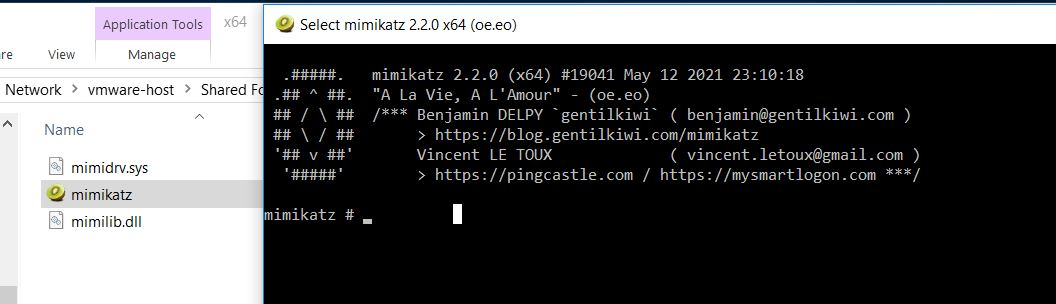
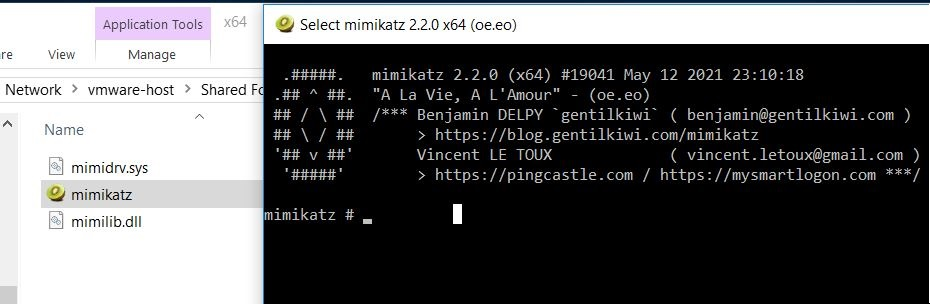
Ajout wpa, modif taille image

diff --git a/_posts/2021-06-15-WPA.md b/_posts/2021-06-15-WPA.md
@@ -1,0 +1,90 @@
+---
+layout: post
+title:  "WPA en bref"
+date:   2021-06-15 
+categories: sécurité réseau
+tags: wpa
+description: Description du protocole WPA
+---
+
+
+
+## Résumé
+
+- Nouveau contrôle intégrité *Message Integrity Code*
+- Utilise l'algorithme TKIP
+- Double la taille de l'IV, par rapport à WEP, qui passe à 48 bits
+
+
+
+## Schéma
+
+### Protocole WPA
+
+Représentation simplifiée du protocole WPA.
+
+Le premier cadre rouge représente la partie qui protège l'intégrité, grâce au MIC
+
+Le 2ème cadre rouge concerne la partie qui assure la confidentialité grâce à l'algorithme TKIP.
+
+
+
+![wpa-schema](../assets/article/reseau/wpa/wpa-schema.png)
+
+### Génération des clés
+
+Ce schéma représente la génération des clés
+
+![wpa-generation-cle](../assets/article/reseau/wpa/wpa-generation-cle.png)
+
+
+
+## Détails
+
+### MIC - Intégrité
+
+- Comment est généré le MIC ?
+
+Il est généré à partir d'une clé MIC, du bloc de données data et des informations permettant d'authentifiés les émetteurs et les récepteurs. Ceux-ci  sont authentifiés par leur adresse MAC respectives. Pour la priorité, celle-ci vaut toujours 0 en pratique.
+
+
+
+- Conséquence : 
+
+1) Si un attaquant intercepte le message,  il lui ne sera pas possible de lui faire croire que le message provient de l'attaquant et non de l'émetteur originale
+
+2) Un message protégé par un MIC ne peut être rendu qu'au destinateur qu'on avait choisi au début.
+
+3) Le récepteur ne va jamais croire que le message provient de quelqu'un d'autres que l'émetteur
+
+
+
+### TKIP - Confidentialité
+
+Dans WEP, on utilise RC4 directement
+
+Avec WPA, on utilise TKIP et c'est lui va utilisé RC4. afin de générer un keystream. TKIP aura pour rôle de rattraper les vulnérabilités présentes dans RC4. 
+
+Le keystream sera différent à chaque fois. 
+
+
+
+### CLES
+
+Pour envoyer une trame protégée avec WPA (unicast), il faut 2 clés :
+
+- Une clé pour calculé le MIC
+- Une clé pour l'algorithme KTIP
+
+Chaque clé est unique pour chaque client
+
+
+
+## Sources 
+
+Cours SRX enseigné à l'HEIG-VD(2021)
+
+
+
+
+

diff --git a/_posts/2021-06-15-linux-lien.md b/_posts/2021-06-15-linux-lien.md
@@ -1,15 +1,15 @@
 ---
 layout: post
 title:  "Les liens avec Linux"
-date:   2021-06-05 
+date:   2021-06-15 
 categories: Linux
 tags: bash
 description: Liens symboliques et physiques avec Linux
 ---
 
-Cet article présente les liens symboliques et physiques
+Cet article présente les liens symboliques et physiques. 
 
-
+Les manipulations ont été effectués sur une machine Ubuntu 20.04 *LTS*
 
 
 
@@ -85,7 +85,7 @@ Pour réaliser les exemples, on créer d'abord un
 
 A l'affichage, on peut remarquer que file_3 est coloré en bleu et qu'avec la commande ls, on a une petite flèche -> sur le fichier source.
 
-![affichage-lien](C:\Users\super\switchdrive\HEIG\divers\mywebsite\assets_2\lien\affichage-lien.PNG)
+![affichage-lien]({{site.url_complet}}\assets_2\lien\affichage-lien.PNG)
 
 ### 2) Modification
 
@@ -95,7 +95,7 @@ On observe le même comportement avec file_1
 
 Conclusion : Que ça soit avec un lien physique ou symbolique, bien que l'implémentation soit différente, le résultat pour l'utilisateur est le même.
 
-![modification](C:\Users\super\switchdrive\HEIG\divers\mywebsite\assets_2\lien\modification.PNG)
+![modification]({{site.url_complet}}\assets_2\lien\modification.PNG)
 
 ### 3) Utilisation de la commande mv
 
@@ -110,7 +110,7 @@ va modifier l'inode de l'entrée de file_1 dans le répertoire.
 - Cette modification sera prise en compte par le lien symbolique, car celui-ci pointe sur file_1 (l'entrée).
 -  Alors que le lien physique, lui il pointe toujours sur l'inode d'origine, celui auquel file_1 pointait au début.
 
-![mv-lien](C:\Users\super\switchdrive\HEIG\divers\mywebsite\assets_2\lien\mv-lien.PNG)
+![mv-lien]({{site.url_complet}}\assets_2\lien\mv-lien.PNG)
 
 ### 4) Suppression avec rm
 
@@ -120,7 +120,7 @@ On peut aussi constater un affichage en rouge pour file_3 indiquant que le lien 
 
 Le lien physique ne sera pas affecté car celui-ci ne pointe pas directement sur file_1 mais avait repris l'inode sur lequel pointait file_1.
 
-![rm-lien](C:\Users\super\switchdrive\HEIG\divers\mywebsite\assets_2\lien\rm-lien.PNG)
+![rm-lien]({{site.url_complet}}\assets_2\lien\rm-lien.PNG)
 
 
 

diff --git a/_posts/2021-05-18-mimikatz-afficher-logs.md b/_posts/2021-05-18-mimikatz-afficher-logs.md
@@ -2,7 +2,7 @@
 layout: post
 title:  "Mimikatz - afficher les logs"
 date:   2021-05-18 
-categories: sécurité mimikatz
+categories: sécurité 
 tags: mimikatz log 
 Auteur: rya-sge
 description: Afficher les logs de Mimikatz avec Windows
@@ -19,6 +19,8 @@ La 2ème étape montre comment afficher les logs générés par mimikatz.
 Depuis votre machine hôte, aller dans release et prend mimikatz_trunk (pas les source code)
 
 Lien : [https://github.com/gentilkiwi/mimikatz/releases/tag/2.2.0-20210512](https://github.com/gentilkiwi/mimikatz/releases/tag/2.2.0-20210512)
+
+
 
 ![wndows-version]({{site.url_complet}}\assets\article\outil-securite\mimikatz\wndows-version.JPG)
 

diff --git a/_posts/2021-05-18-analyse-buffer-overflow-gcc-gdb.md b/_posts/2021-05-18-analyse-buffer-overflow-gcc-gdb.md
@@ -4,7 +4,7 @@ layout: post
 title:  "Analyse de buffer overflow avec GCC et GDB"
 date:   2021-05-18 
 categories: sécurité reverse 
-tags: gcc gdb buffer-overflow reverse shellcode
+tags: gcc gdb buffer-overflow shellcode
 description: Compilation avec gcc et commandes de base de GDB
 ---
 Création de l'exécutable à tester avec **GCC** puis présentation des principales commandes de **GDB** pour analyser des buffer overflows

diff --git a/_posts/2021-05-16-metasploit-migration-avec-keylogger.md b/_posts/2021-05-16-metasploit-migration-avec-keylogger.md
@@ -2,7 +2,7 @@
 layout: post
 title:  "Metasploit - migration avec keylogger"
 date:   2021-05-16 
-categories: metasploit securité keylogger
+categories: sécurité
 tags: metasploit meterpreter keylogger migrate
 description: Utilisation de la commande migrate sur une session meterpreter 
 ---

diff --git a/_posts/2021-05-11-klee-introduction.md b/_posts/2021-05-11-klee-introduction.md
@@ -2,7 +2,7 @@
 layout: post
 title:  "Introduction à Klee"
 date:   2021-05-11 
-categories: reverse
+categories: reverse sécurité
 tags: klee clang reverse sanitizer concolique analyse
 description: Présentation du logiciel Klee ainsi que ses tutoriels
 Auteur : Ryan S.

diff --git a/_posts/2021-05-15-smtp-en-bref.md b/_posts/2021-05-15-smtp-en-bref.md
@@ -2,8 +2,8 @@
 layout: post
 title:  "SMTP en bref"
 date:   2021-05-15 
-categories: smtp réseau 
-tags: smtp réseau protocole
+categories: réseau 
+tags: smtp protocole
 ---
 
 Résumé en bref du protocole SMTP ainsi que la présentation de quelques outils(dig, telnet)

diff --git a/_posts/2021-05-11-docker-en-bref.md b/_posts/2021-05-11-docker-en-bref.md
@@ -2,7 +2,7 @@
 layout: post
 title:  "Docker en bref"
 date:   2021-05-11
-categories: Virtualisation docker
+categories: Virtualisation 
 tags: docker virtualisation
 description: Liste des principales commandes de Docker
 ---
